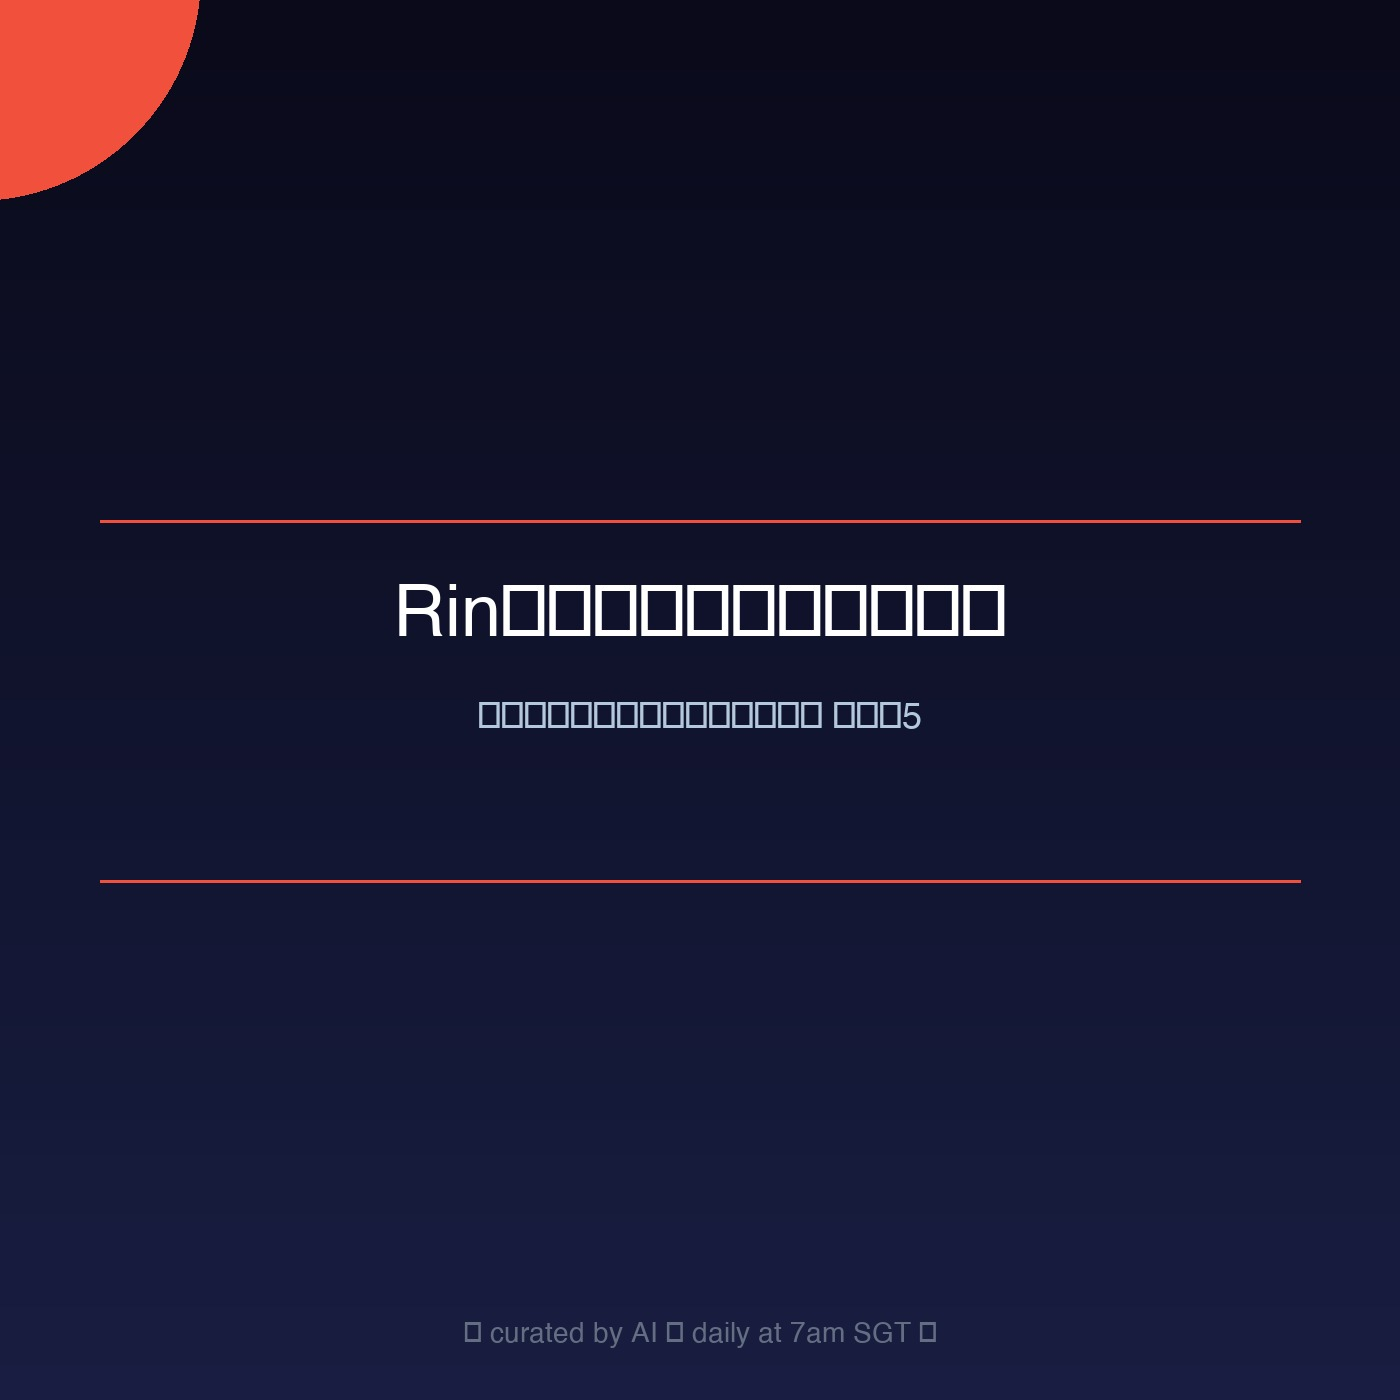
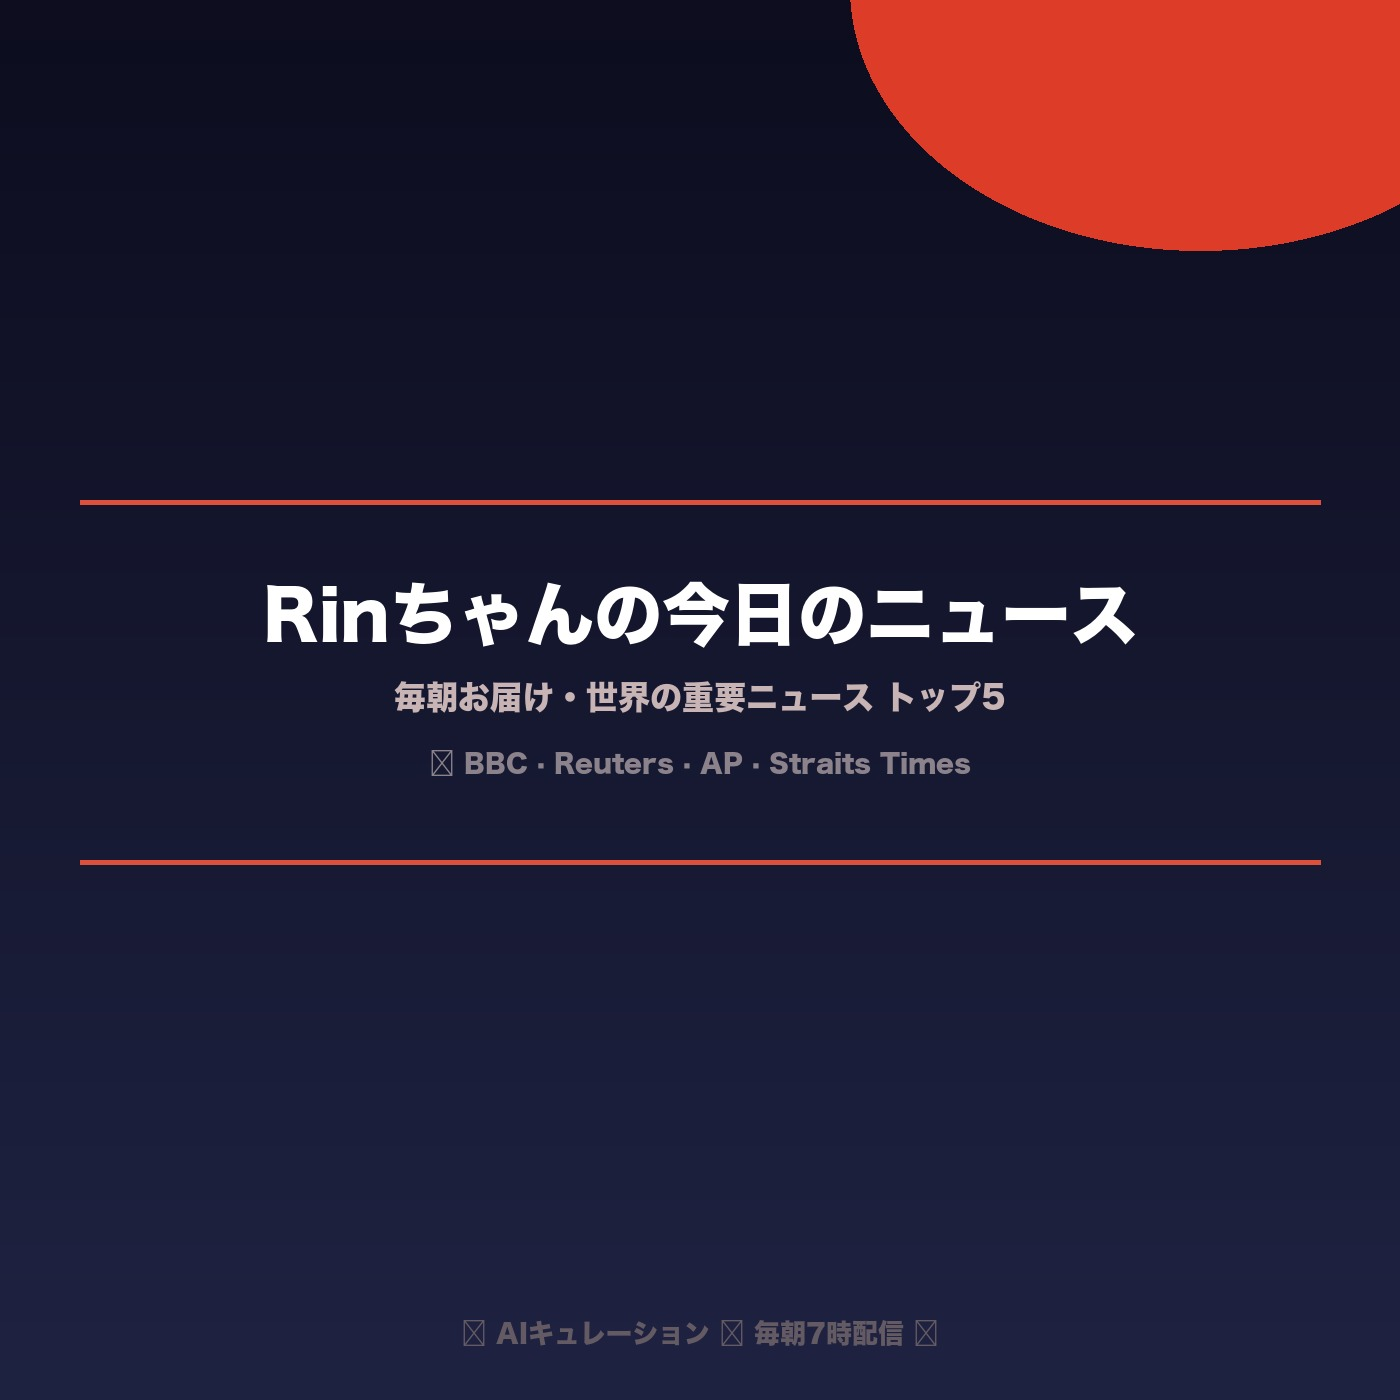
🎨 New covers: JP font fix + energetic EN owl mascot

diff --git a/generate_cover.py b/generate_cover.py
@@ -1,116 +1,220 @@
 #!/usr/bin/env python3
-"""Generate podcast cover art for both EN and JA feeds."""
+"""Generate podcast cover art — vibrant EN + proper JP."""
 from PIL import Image, ImageDraw, ImageFont, ImageFilter
-import os
+import math, os
 
 SIZE = 1400
 OUT_DIR = os.path.join(os.path.dirname(os.path.abspath(__file__)), "audio")
 
-def make_cover(title: str, subtitle: str, filename: str, accent_color=(0, 180, 216)):
-    """Create a modern podcast cover image."""
-    img = Image.new("RGB", (SIZE, SIZE), "#0a0a1a")
+# Fonts
+JP_FONT = "/System/Library/Fonts/ヒラギノ角ゴシック W8.ttc"
+JP_FONT_BOLD = "/System/Library/Fonts/ヒラギノ角ゴシック W9.ttc"
+NOTO_JP = "/tmp/NotoSansJP.ttf"
+EN_FONT = "/System/Library/Fonts/HelveticaNeue.ttc"
+
+def get_font(path, size, index=0):
+    try:
+        return ImageFont.truetype(path, size, index=index)
+    except:
+        try:
+            return ImageFont.truetype(path, size)
+        except:
+            return ImageFont.load_default()
+
+def make_jp_cover():
+    """Japanese cover with proper CJK font rendering."""
+    img = Image.new("RGB", (SIZE, SIZE), "#0d0d1f")
     draw = ImageDraw.Draw(img)
     
-    # Background gradient (subtle)
+    # Background gradient
     for y in range(SIZE):
-        r = int(10 + (y / SIZE) * 15)
-        g = int(10 + (y / SIZE) * 20)
-        b = int(26 + (y / SIZE) * 40)
+        r = int(13 + (y / SIZE) * 18)
+        g = int(13 + (y / SIZE) * 22)
+        b = int(31 + (y / SIZE) * 35)
         draw.line([(0, y), (SIZE, y)], fill=(r, g, b))
     
-    # Decorative circle (top-left glow)
-    for r in range(300, 0, -1):
-        alpha = int(30 * (1 - r/300))
+    # Glowing accent circle (top-right)
+    for r in range(350, 0, -1):
+        alpha = int(25 * (1 - r/350))
         draw.ellipse(
-            [-100 - r//2, -100 - r//2, -100 + r, -100 + r],
-            fill=(accent_color[0], accent_color[1], accent_color[2]),
+            [SIZE-200 - r, -100 - r//2, SIZE-200 + r, -100 + r],
+            fill=(220, 60, 40),
             outline=None
         )
     
-    # Decorative line accents
-    draw.rectangle([100, 520, 1300, 522], fill=accent_color)
-    draw.rectangle([100, 880, 1300, 882], fill=accent_color)
+    # Accent lines
+    draw.rectangle([80, 500, 1320, 504], fill=(220, 80, 60))
+    draw.rectangle([80, 860, 1320, 864], fill=(220, 80, 60))
     
-    # Try to find a good font
-    font_paths = [
-        "/System/Library/Fonts/Helvetica.ttc",
-        "/System/Library/Fonts/HelveticaNeue.ttc",
-        "/System/Library/Fonts/SFNSDisplay.ttf",
-        "/Library/Fonts/Arial.ttf",
-    ]
-    
-    title_font = None
-    sub_font = None
-    for fp in font_paths:
-        if os.path.exists(fp):
-            try:
-                title_font = ImageFont.truetype(fp, 72)
-                sub_font = ImageFont.truetype(fp, 36)
-                break
-            except:
-                continue
-    
-    if title_font is None:
-        title_font = ImageFont.load_default()
-        sub_font = ImageFont.load_default()
-    
-    # Draw title (centered)
-    # Split long titles into lines
-    words = title.split()
-    lines = []
-    current = ""
-    for w in words:
-        test = f"{current} {w}".strip()
-        if draw.textlength(test, font=title_font) > 1100:
-            lines.append(current)
-            current = w
-        else:
-            current = test
-    if current:
-        lines.append(current)
-    
-    y_start = 580
-    for i, line in enumerate(lines):
-        tw = draw.textlength(line, font=title_font)
-        x = (SIZE - tw) / 2
-        draw.text((x, y_start + i * 90), line, fill="#ffffff", font=title_font)
-    
-    # Draw subtitle
-    sub_y = y_start + len(lines) * 90 + 30
-    sw = draw.textlength(subtitle, font=sub_font)
-    draw.text(((SIZE - sw)/2, sub_y), subtitle, fill=(180, 200, 220), font=sub_font)
-    
-    # Small tag at bottom
-    tag = "✦ curated by AI ✦ daily at 7am SGT ✦"
+    # Try Hiragino first, fall back to Noto
     try:
-        tag_font = ImageFont.truetype(font_paths[0], 28)
+        title_font = ImageFont.truetype(JP_FONT, 68, index=0)
+    except:
+        try:
+            title_font = ImageFont.truetype(NOTO_JP, 68)
+        except:
+            title_font = ImageFont.load_default()
+    
+    try:
+        sub_font = ImageFont.truetype(JP_FONT, 32, index=0)
+    except:
+        try:
+            sub_font = ImageFont.truetype(NOTO_JP, 32)
+        except:
+            sub_font = title_font
+    
+    try:
+        tag_font = ImageFont.truetype(JP_FONT, 26, index=0)
     except:
         tag_font = sub_font
-    tw = draw.textlength(tag, font=tag_font)
-    draw.text(((SIZE - tw)/2, SIZE - 80), tag, fill=(100, 110, 130), font=tag_font)
     
-    out_path = os.path.join(OUT_DIR, filename)
-    img.save(out_path, "JPEG", quality=92)
-    print(f"✅ {out_path} ({os.path.getsize(out_path)/1024:.0f} KB)")
-    return out_path
+    # Title
+    title = "Rinちゃんの今日のニュース"
+    tw = draw.textlength(title, font=title_font)
+    draw.text(((SIZE - tw)/2, 580), title, fill="#ffffff", font=title_font)
+    
+    # Subtitle
+    subtitle = "毎朝お届け・世界の重要ニュース トップ5"
+    sw = draw.textlength(subtitle, font=sub_font)
+    draw.text(((SIZE - sw)/2, 680), subtitle, fill=(200, 180, 180), font=sub_font)
+    
+    # Source line
+    sources = "📡 BBC · Reuters · AP · Straits Times"
+    sw2 = draw.textlength(sources, font=tag_font)
+    draw.text(((SIZE - sw2)/2, 750), sources, fill=(140, 130, 140), font=tag_font)
+    
+    # Bottom tag
+    tag = "✦ AIキュレーション ✦ 毎朝7時配信 ✦"
+    tw3 = draw.textlength(tag, font=tag_font)
+    draw.text(((SIZE - tw3)/2, SIZE - 80), tag, fill=(100, 90, 100), font=tag_font)
+    
+    path = os.path.join(OUT_DIR, "cover-ja.jpg")
+    img.save(path, "JPEG", quality=92)
+    print(f"✅ JP cover: {path} ({os.path.getsize(path)/1024:.0f} KB)")
+    return path
+
+
+def make_en_cover():
+    """Energetic English cover with Duolingo-style mascot and shapes."""
+    img = Image.new("RGB", (SIZE, SIZE), "#1a0533")
+    draw = ImageDraw.Draw(img)
+    
+    # Vibrant gradient background (purple → magenta → orange)
+    for y in range(SIZE):
+        ratio = y / SIZE
+        if ratio < 0.5:
+            r = int(26 + ratio * 2 * 220)
+            g = int(5 + ratio * 2 * 30)
+            b = int(51 + ratio * 2 * 100)
+        else:
+            r = int(246 - (ratio-0.5) * 2 * 40)
+            g = int(35 + (ratio-0.5) * 2 * 100)
+            b = int(151 - (ratio-0.5) * 2 * 100)
+        draw.line([(0, y), (SIZE, y)], fill=(min(r,255), min(g,255), min(b,255)))
+    
+    # Large decorative shapes
+    # Circle top-left
+    draw.ellipse([-80, -80, 350, 350], fill=(255, 200, 50, 180), outline=None)
+    # Smaller circle top-right  
+    draw.ellipse([SIZE-250, 50, SIZE+50, 350], fill=(255, 100, 150, 150), outline=None)
+    
+    # Triangle accent (bottom left)
+    tri = [(50, SIZE-200), (250, SIZE-350), (250, SIZE-50)]
+    draw.polygon(tri, fill=(80, 220, 255))
+    
+    # Small floating dots/circles
+    for pos, color in [
+        ((300, 200), (255, 255, 100)),
+        ((1050, 150), (100, 255, 200)),
+        ((200, 400), (255, 150, 200)),
+        ((1100, 350), (255, 200, 100)),
+        ((1200, 500), (150, 200, 255)),
+        ((180, 650), (255, 255, 150)),
+    ]:
+        draw.ellipse([pos[0]-15, pos[1]-15, pos[0]+15, pos[1]+15], fill=color)
+    
+    # === DUOLINGO-STYLE OWL MASCOT (center-ish, smaller) ===
+    owl_cx, owl_cy = 700, 350
+    # Body (green rounded shape)
+    draw.ellipse([owl_cx-55, owl_cy-30, owl_cx+55, owl_cy+75], fill=(88, 204, 2))
+    # Belly (lighter green)
+    draw.ellipse([owl_cx-38, owl_cy+5, owl_cx+38, owl_cy+70], fill=(168, 255, 88))
+    # Head (bigger circle on top)
+    draw.ellipse([owl_cx-50, owl_cy-80, owl_cx+50, owl_cy+20], fill=(88, 204, 2))
+    # Eyes (big white circles)
+    draw.ellipse([owl_cx-32, owl_cy-60, owl_cx-2, owl_cy-30], fill="white")
+    draw.ellipse([owl_cx+2, owl_cy-60, owl_cx+32, owl_cy-30], fill="white")
+    # Pupils (big dark circles, slightly cross-eyed for cute)
+    draw.ellipse([owl_cx-20, owl_cy-55, owl_cx-8, owl_cy-35], fill="#1a0533")
+    draw.ellipse([owl_cx+8, owl_cy-55, owl_cx+20, owl_cy-35], fill="#1a0533")
+    # Eye highlights
+    draw.ellipse([owl_cx-17, owl_cy-52, owl_cx-12, owl_cy-47], fill="white")
+    draw.ellipse([owl_cx+12, owl_cy-52, owl_cx+17, owl_cy-47], fill="white")
+    # Beak (orange triangle)
+    beak = [(owl_cx-10, owl_cy-32), (owl_cx+10, owl_cy-32), (owl_cx, owl_cy-15)]
+    draw.polygon(beak, fill=(255, 140, 50))
+    # Blush circles
+    draw.ellipse([owl_cx-45, owl_cy-35, owl_cx-30, owl_cy-22], fill=(255, 130, 150, 120))
+    draw.ellipse([owl_cx+30, owl_cy-35, owl_cx+45, owl_cy-22], fill=(255, 130, 150, 120))
+    # Tiny wings
+    draw.ellipse([owl_cx-70, owl_cy-10, owl_cx-45, owl_cy+30], fill=(70, 180, 0))
+    draw.ellipse([owl_cx+45, owl_cy-10, owl_cx+70, owl_cy+30], fill=(70, 180, 0))
+    # Headphones on the owl!
+    draw.arc([owl_cx-55, owl_cy-95, owl_cx+55, owl_cy-50], start=190, end=350, fill=(255, 80, 120), width=8)
+    headphone_l = (owl_cx-55, owl_cy-70, owl_cx-40, owl_cy-55)
+    headphone_r = (owl_cx+40, owl_cy-70, owl_cx+55, owl_cy-55)
+    draw.ellipse(headphone_l, fill=(255, 80, 120))
+    draw.ellipse(headphone_r, fill=(255, 80, 120))
+    
+    # === TEXT ===
+    try:
+        title_font = ImageFont.truetype(EN_FONT, 80, index=2)  # Helvetica Neue Bold
+    except:
+        title_font = ImageFont.load_default()
+    try:
+        sub_font = ImageFont.truetype(EN_FONT, 34, index=0)
+    except:
+        sub_font = title_font
+    try:
+        tag_font = ImageFont.truetype(EN_FONT, 26, index=0)
+    except:
+        tag_font = sub_font
+    
+    # Title with shadow effect
+    title = "Rin-chan's"
+    tw = draw.textlength(title, font=title_font)
+    x = (SIZE - tw) / 2
+    # Shadow
+    draw.text((x+4, 484), title, fill="rgba(0,0,0,80)", font=title_font)
+    draw.text((x, 480), title, fill="#ffffff", font=title_font)
+    
+    title2 = "Daily News"
+    tw2 = draw.textlength(title2, font=title_font)
+    x2 = (SIZE - tw2) / 2
+    draw.text((x2+4, 574), title2, fill="rgba(0,0,0,80)", font=title_font)
+    draw.text((x2, 570), title2, fill=(255, 230, 80), font=title_font)
+    
+    # Subtitle
+    sub = "Top 5 Global Stories · Every Morning · SG US CN EU JP"
+    sw = draw.textlength(sub, font=sub_font)
+    draw.text(((SIZE - sw)/2, 670), sub, fill=(255, 255, 255, 200), font=sub_font)
+    
+    # Bottom line with accent
+    draw.rectangle([150, 730, 1250, 734], fill=(255, 200, 50))
+    
+    # Source tag
+    tag = "📡 BBC · Reuters · AP · Straits Times  ✦  Daily 7am SGT  ✦  AI-Curated by Rinちゃん"
+    tw4 = draw.textlength(tag, font=tag_font)
+    draw.text(((SIZE - tw4)/2, SIZE - 70), tag, fill=(220, 210, 230), font=tag_font)
+    
+    path = os.path.join(OUT_DIR, "cover-en.jpg")
+    img.save(path, "JPEG", quality=92)
+    print(f"✅ EN cover: {path} ({os.path.getsize(path)/1024:.0f} KB)")
+    return path
+
 
 if __name__ == "__main__":
     os.makedirs(OUT_DIR, exist_ok=True)
-    
-    # English cover
-    make_cover(
-        "Rin-chan's Daily News",
-        "Top 5 Global Stories Every Morning",
-        "cover-en.jpg",
-        accent_color=(0, 200, 240)
-    )
-    
-    # Japanese cover
-    make_cover(
-        "Rinちゃんの今日のニュース",
-        "毎朝お届け・世界の重要ニュース トップ5",
-        "cover-ja.jpg",
-        accent_color=(240, 80, 60)
-    )
-    
-    print("Done!")
+    make_jp_cover()
+    make_en_cover()
+    print("Done! Both covers generated.")